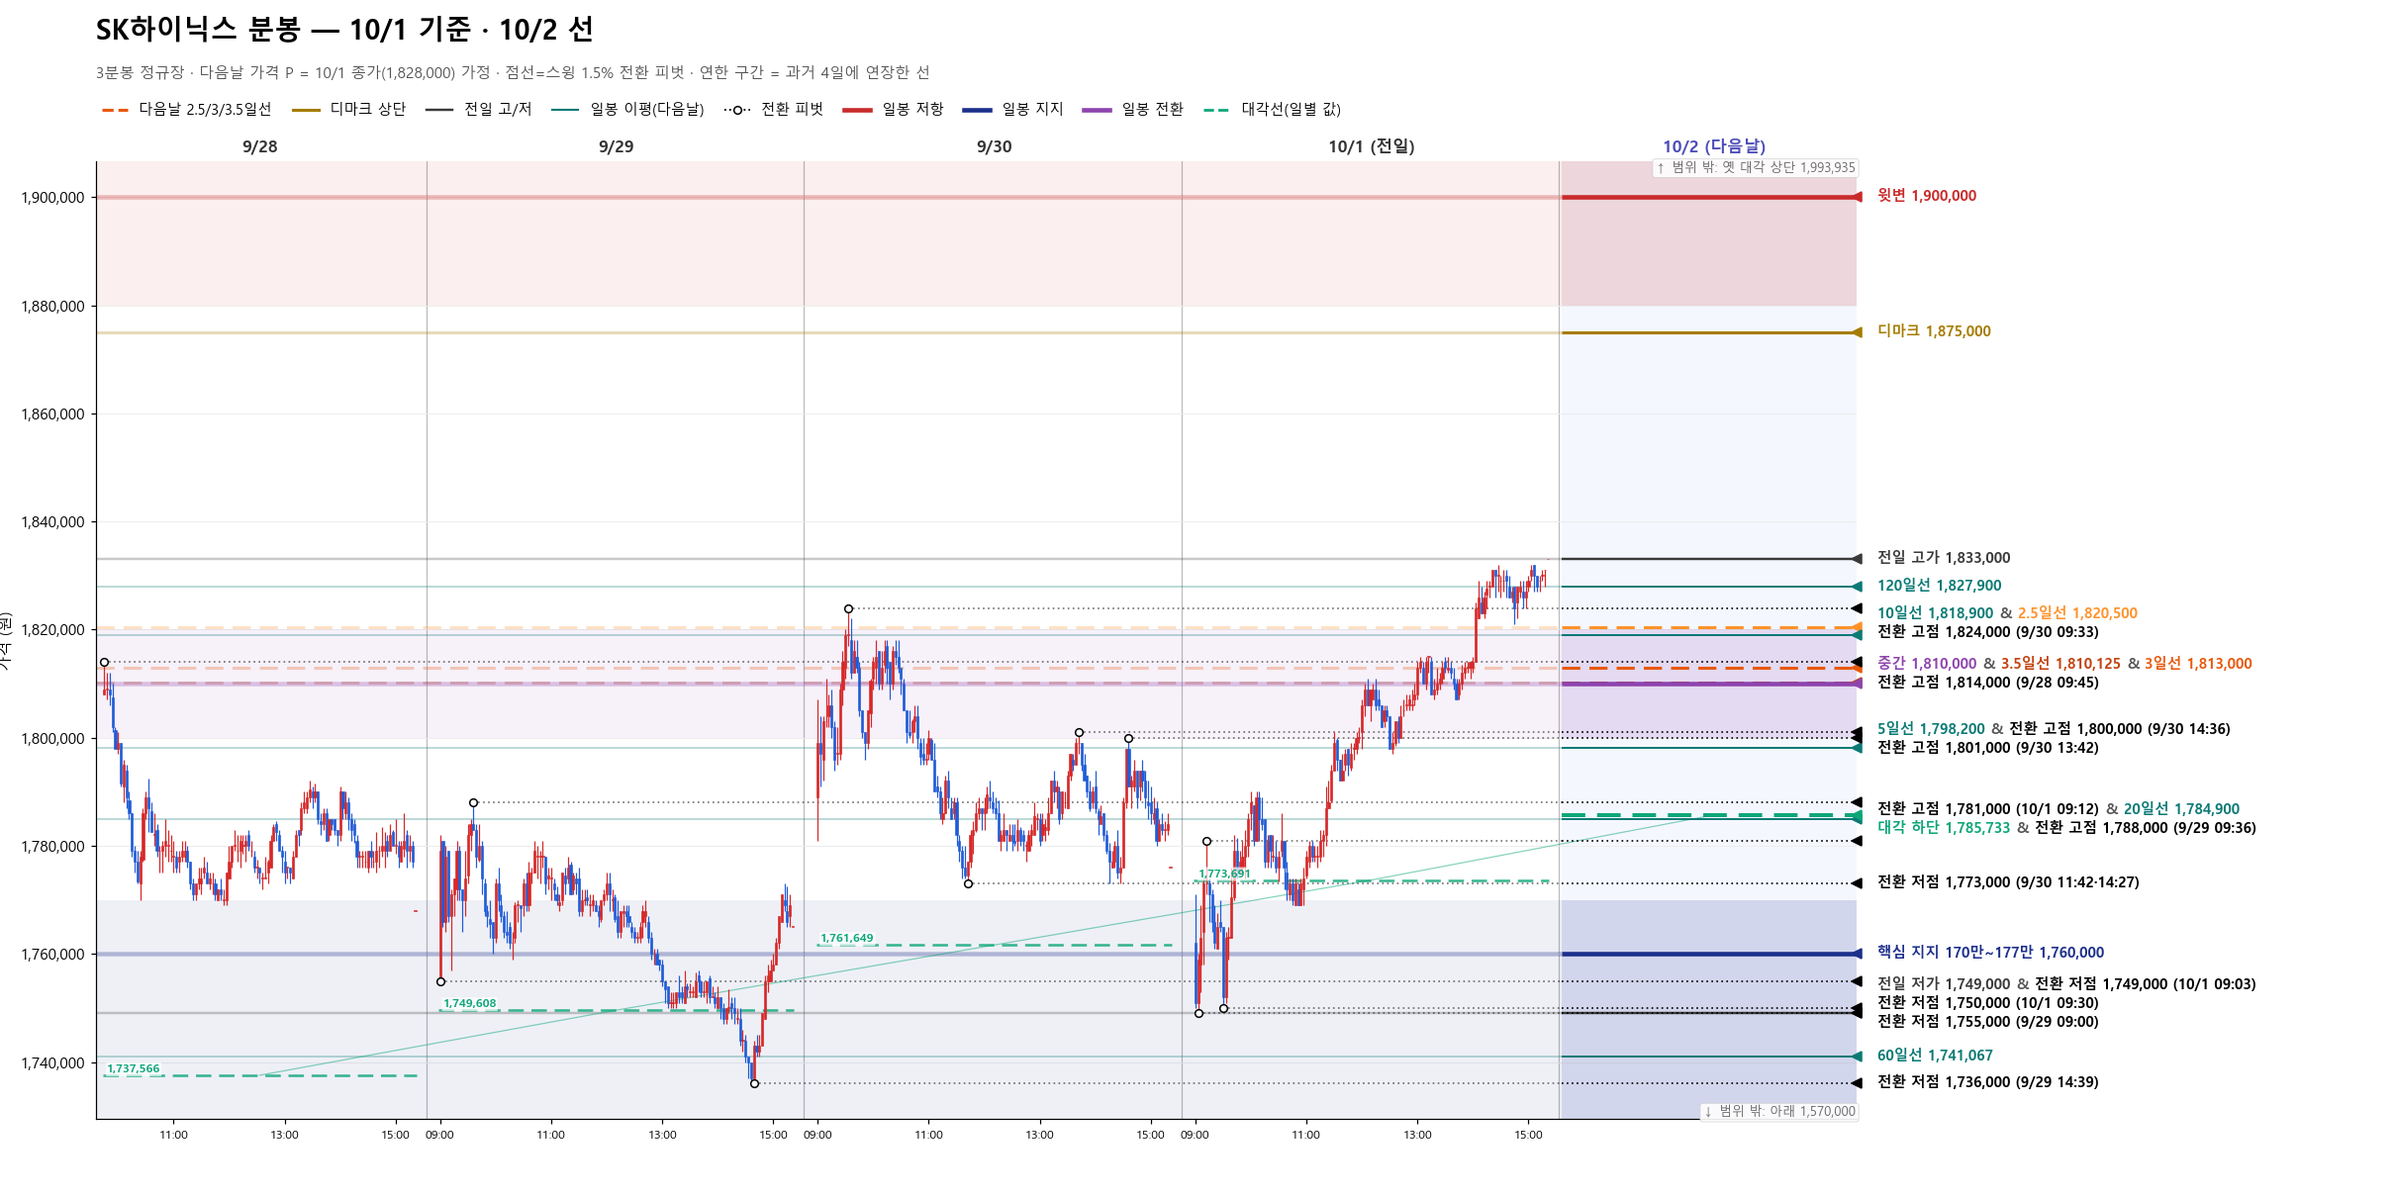
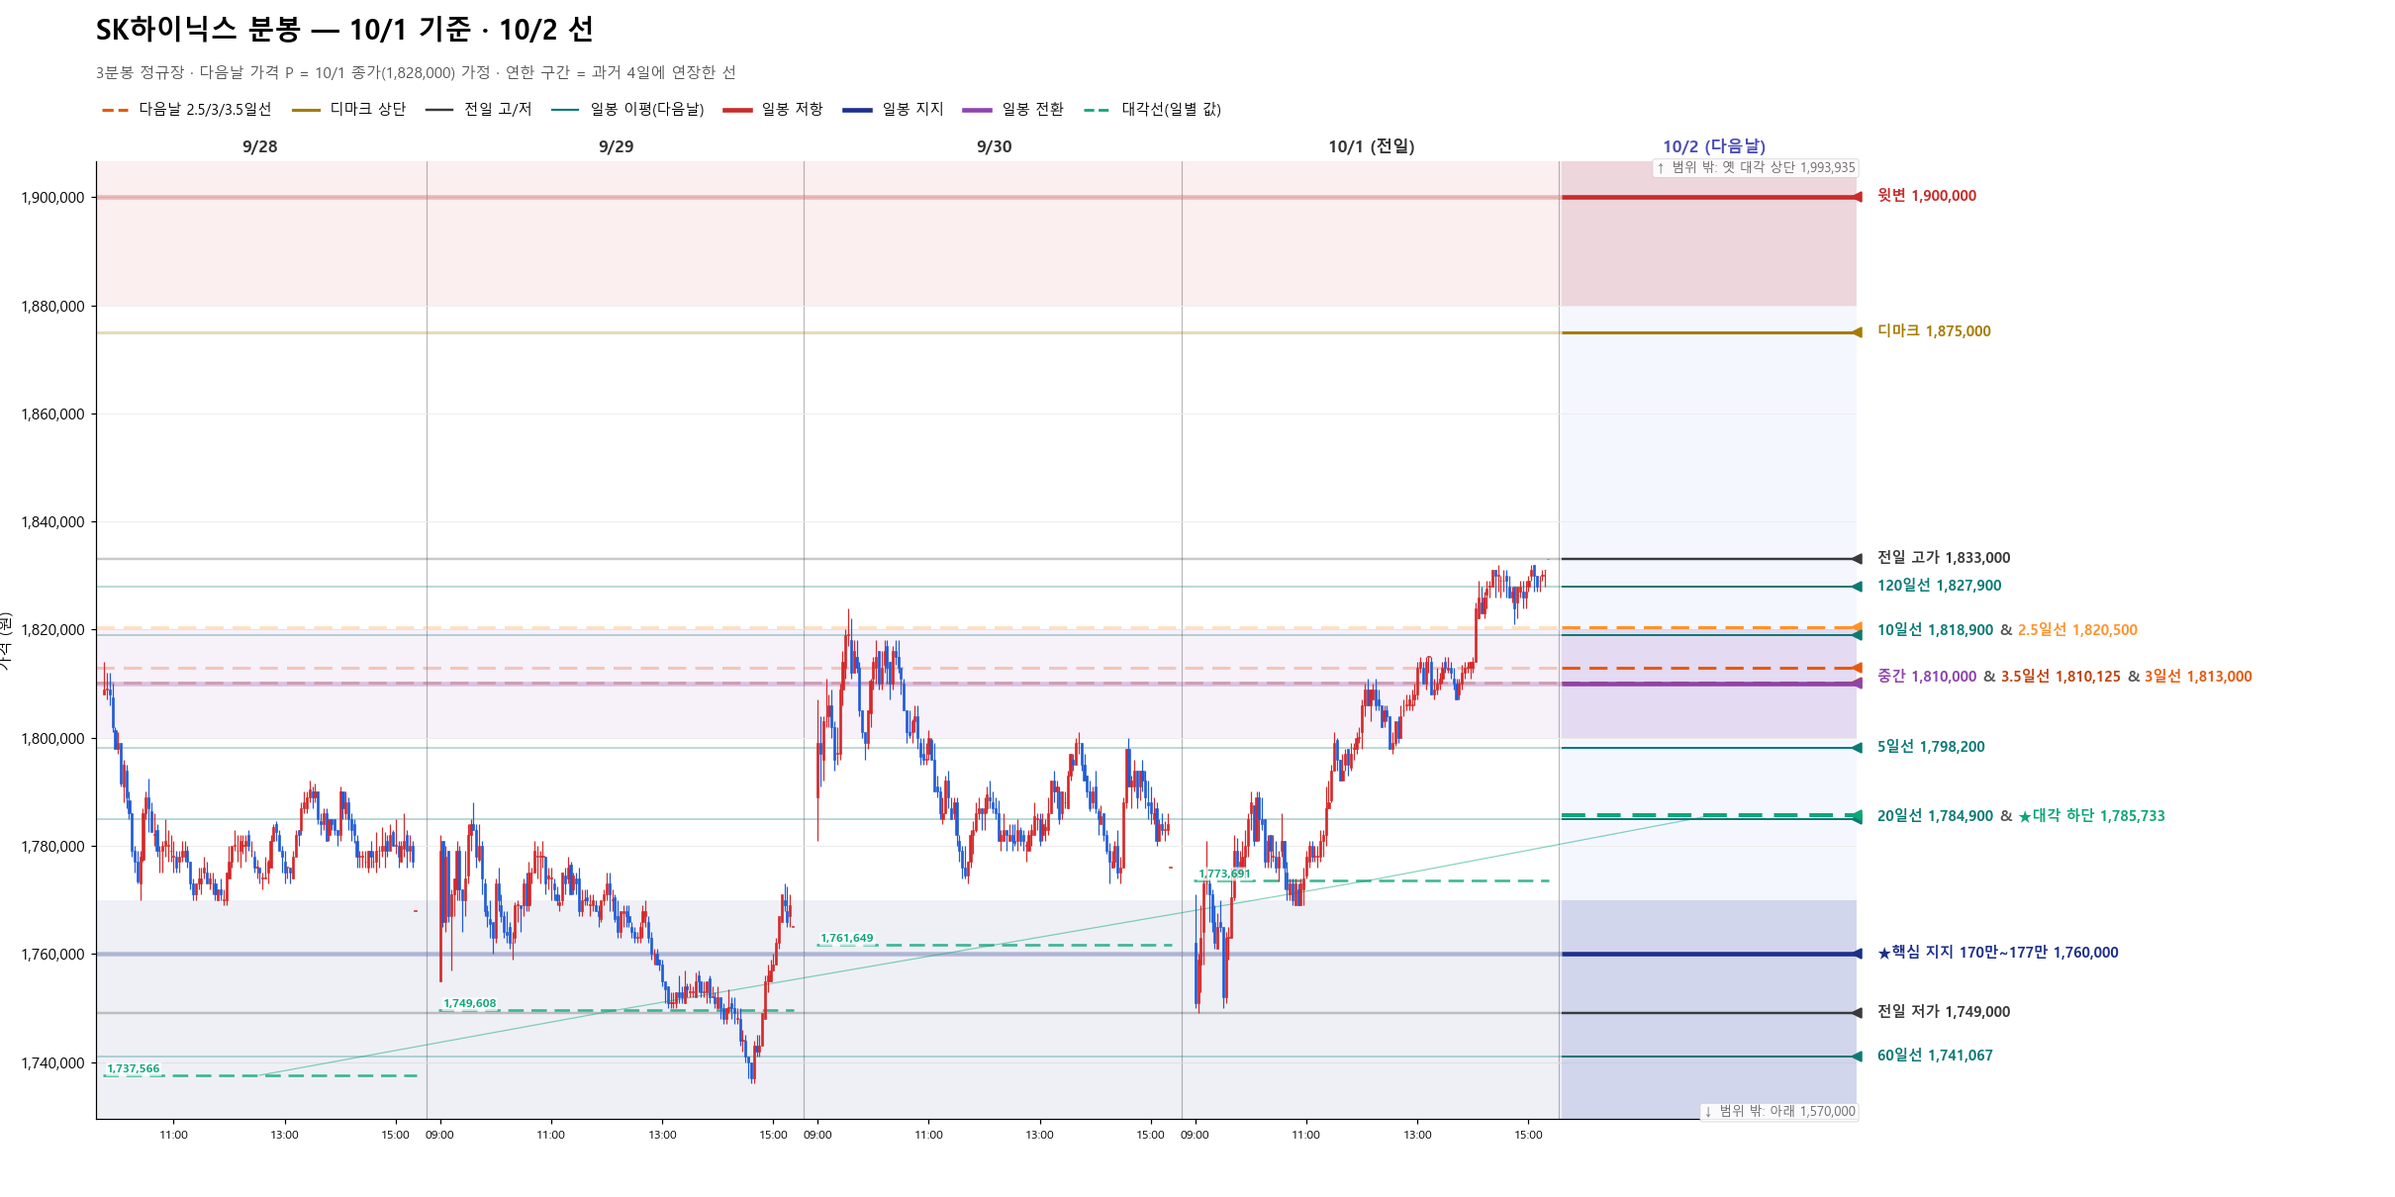
국장복기 자동 동기화 — 시나리오: 추가2·수정0·삭제0 / 스윙진행: 추가0·수정0·삭제0 / 그림: 추가2·수정1·삭제0

diff --git a/content/국장복기/시나리오/매매제안_20261005_SK하이닉스.md b/content/국장복기/시나리오/매매제안_20261005_SK하이닉스.md
@@ -1,0 +1,157 @@
+---
+종류: 매매제안
+형식: 새 형식 (RC-39 · _매매제안방법.md §0-3 · 10/03 개정 — 분봉 꼭지점 없음 · ★ 표기)
+종목: SK하이닉스
+종목코드: "000660"
+등급: 삼전·하닉 (보수 500만 · 평시 1,000만 · 강세·초강세 2,000만)
+날짜: 2026-10-05
+판정: 일봉 좋다 — 중간 띠 돌파 2일차 안착 · 단 가격은 ★지지보다 2.4% 위, 대각이 3일 안에 가격을 따라잡는다
+국면: ⑧ 수렴 (사용자 확정 9/29 · 10/05 유지)
+가장강한지지: "★대각 하단 + 20일선 1,797,774~1,800,000"
+가장강한저항: "윗변 1,880,000~1,935,000"
+손절: 1,760,000 이탈 (그림 기준) · 스윙 종가 손절 = 대각 하단 종가 이탈
+손익비: 2.1
+모드: 초강세 1일차 예정 (RC-12 판정 — 정식 시황 미작성)
+보유: 스윙 허용 — 10/08(휴장 전날) 재판단
+비중상한: 초강세 2,000만(분할) · 모드 확정 전이면 보수 500만
+상태: 대기
+tags:
+  - 매매제안/대형주
+  - 매매제안/새형식
+  - 종목/SK하이닉스
+  - 국면/수렴
+  - 규칙/RC-39
+  - 규칙/RC-40
+---
+
+# 매매제안 — 2026/10/05 SK하이닉스
+
+> [!abstract] 판정 — 일봉이 좋다 : 중간 띠(180만~182만)를 넘은 뒤 이틀째 그 위에서 놀았고, ★대각 하단은 하루 +12,042원씩 올라오고 있다
+> **가장 강한 지지 = `1,797,774~1,800,000`**(★대각 하단 1,797,774 · 20일선 1,798,600 · 중간 띠 하단 1,800,000)
+> 10/02 종가 **1,841,000**은 그 자리보다 **+2.4% 위**다. 야간선물 +1.29% · 필라 +2.40%라 월요일은 더 위에서 열릴 가능성이 크다 → **월요일 아침에 쫓는 자리가 아니라 기다리는 자리**
+> ⏱ 대각은 10/06 1,809,816 → **10/07 1,821,858**까지 올라온다 — **사흘 안에 대각이 가격을 따라잡는다.** 수렴의 끝이 다가오고 있다는 뜻이다
+> 분봉 진입은 사용자 실시간 판단
+
+---
+
+## 🧭 국면 · 일봉 지지저항 (사용자 확정 9/29 · 10/05 유지)
+
+![20261005_SK하이닉스](content/국장복기/차트/20261005_SK%ED%95%98%EC%9D%B4%EB%8B%89%EC%8A%A4.png)
+
+| 항목 | 내용 |
+|:---|:---|
+| **국면** | **⑧ 수렴** — ★대각 하단 위 · 윗변 1,880,000~1,935,000 · 방향 결정 약 10/14~10/20(9/29 판정) |
+| **윗변** | **1,880,000~1,935,000** — 9/08 · 9/09 · 9/10 · 9/22 · 9/23 **5회 거부** |
+| **중간** | 1,800,000~1,820,000(전환) — 9/30 · 10/01 고가 저항 → **10/01 종가 돌파 → 10/02 저가 1,825,000으로 띠 위 유지(2일차)** |
+| **★핵심 지지** | **170만~177만**(선 1,760,000) — 5/19 · 9/28 · 9/29 · 10/01 방어 |
+| **★대각 하단** | 10/02 1,785,733 → **10/05 1,797,774** → 10/06 1,809,816 → 10/07 1,821,858 (하루 +12,042원) |
+| 10/02 봉 | 정규장 시 1,830,000 · 고 1,855,000(09:24) · 저 1,825,000(09:00) · 종 **1,841,000** — **진폭 1.6%의 좁은 봉** · 거래대금 정규 4.34조(10거래일 중 최저) |
+| 판단 변경 없음 | 10/02 봉은 확정 레벨을 새로 만들거나 깨지 않았다 → 1단계 확정값 유지(재보고 생략) |
+
+## 📰 뉴스 · 일정 (2026-10-03 17시 검색)
+
+| 날짜(한국시간) | 일정 | 출처 |
+|:---|:---|:---|
+| 10/05(월) | 국제우주대회 개막 | 마켓프로 10/02 |
+| 10/06(화) | 국정감사 개시 · 서울AI로봇쇼(~8일) | 마켓프로 · 클로징 14084 |
+| **10/07(수) 전후** | **삼성전자 3분기 잠정실적**(캘린더 10/07 · 마켓프로 "8일 전후") · 9월 FOMC 의사록 | 이벤트캘린더 · 다이제스트 · 마켓프로 — **날짜 미확정** |
+| 10/08(목) | 리사 수 AMD 회장 방한 · **휴장 전날** | 다이제스트 14075 |
+| **10/09(금)** | **한글날 휴장** — 미국 장은 열린다 | 마켓프로 |
+| 10월 중 | **60조↑ 주주환원 추가 발표** | 다이제스트 일정 Check |
+| 10/27 또는 10/28 | 3분기 실적 발표 — 주주환원 세부도 이때 | Investing.com(10/27) · Quartr(10/28) — **엇갈림, 미확인** |
+| 10/27~28 | 美 FOMC | 마켓프로 |
+
+**헤드라인**
+1. 美 9월 고용 **+2.9만**(예상 8~9만) · 실업률 4.2% → **10월 동결 기대 굳음** · 필라 **+2.40%** · 엔비디아 장중 사상 최고(CNBC · Yahoo)
+2. 그러나 **30년물 5.628%** 그대로 — 약한 고용에도 장기금리는 안 내려왔다(CNBC)
+3. **외국인 9월 하닉 11.6조 순매도 — 코스피 순매도의 76.6%** · 10/02도 삼전 · 하닉 매도(서울경제)
+4. 삼성 **HBM4 수율 80%대 안정 · 3분기 HBM4 매출 3배 이상 예상** — 하닉 HBM 점유율 58%(1분기)와의 격차 축소(서울경제 · Motley Fool)
+5. 원/달러 **1,343.8원(−15원)** — 외국인 수급엔 우호, 원화 환산 이익엔 감점
+
+> [!success] 종합 : **우호** — 미국 반도체 · 금리 기대는 우호. 역풍은 **외국인 하닉 매도(9월 순매도의 3/4)** · 삼성 HBM4 추격 · 장기금리
+
+## ✅ 좋은 점
+
+1. **중간 띠 역할 전환 2일차** — 9/30 · 10/01 고가를 막던 1,800,000~1,820,000을 10/01에 종가로 넘었고, 10/02엔 저가 1,825,000으로 **한 번도 띠 안으로 안 들어왔다**
+2. **★대각 하단 + 20일선이 826원 차이로 겹친다**(1,797,774 · 1,798,600) — 그 바로 위가 중간 띠 하단 1,800,000. 사용자 원칙 *"대각 지지이면서 강한 지지"* 그대로
+3. **미국 확인** — 고용 쇼크로 10월 동결이 굳고 필라 +2.40% · 야간선물 +1.29%
+4. 이벤트 순서 — 삼성 잠정실적(이익 확인) → 하닉 주주환원(10월 중)이 같은 방향
+
+## ⚠ 나쁜 점
+
+1. **오르는데 거래가 준다** — 10/02 정규장 4.34조 = 최근 10거래일 최저, 진폭 1.6%. 띠 위 안착은 맞지만 **힘으로 넘은 게 아니다**
+2. **외국인이 하닉을 가장 많이 판다** — 9월 11.6조, 10/02도 매도. 자사주 매입 71.3%로 막바지 → 받쳐 주던 기타법인이 곧 빠진다
+3. **윗변 5회 거부** · ★대각이 사흘 뒤 가격(약 1,82만)까지 올라온다 → **수렴 끝이 생각보다 빠르다**(9/29 판정 10/14~10/20보다 앞당겨질 수 있다)
+4. **대각 장중 이탈 2회**(9/29 · 10/01) — 선이 약해지는 신호(RC-24)
+5. 삼성 HBM4 추격 · 30년물 5.63% · 10/08 휴장 전날
+
+## ⛔ 무효 조건
+
+1. **일봉 종가가 ★대각 하단 아래** — 10/05 1,797,774 / 10/06 1,809,816 / 10/07 1,821,858 → 수렴 하향 이탈, 판단을 거둔다
+2. **중간 띠(1,800,000) 종가 재진입 후 이탈** — 역할 전환 실패
+3. 뉴스 : 삼성 잠정실적이 환율 감소분을 못 메움 · 장기금리 5.7% 돌파 · 솔리다임 상장 확정
+
+## 🖼 분봉 그림 (10/02 기준 · 10/05 선)
+
+![20261005_SK하이닉스_분봉](content/국장복기/차트/20261005_SK%ED%95%98%EC%9D%B4%EB%8B%89%EC%8A%A4_%EB%B6%84%EB%B4%89.png)
+
+| 위 → 아래 | 선 | 근거 |
+|:---|---:|:---|
+| 일봉 저항 | **1,880,000~1,935,000** | 윗변(선 1,900,000) — 5회 거부 |
+| 디마크 상단 | 1,863,000 | 10/02 정규장(C > O → 2H+L+C) |
+| 전일 고가 | 1,855,000 | 10/02 09:24 |
+| | 1,834,658~1,838,833 | 120일선 1,834,658 · 3일선 1,836,667 · 2.5일선 1,838,833 |
+| *10/02 종가* | *1,841,000* | |
+| | 1,825,000~1,829,958 | 전일 저가 1,825,000 · 10일선 1,827,700 · 3.5일선 1,829,958 |
+| | 1,810,000~1,816,600 | 중간 띠(선 1,810,000) · 5일선 1,816,600 |
+| **가장 강한 지지** | **1,797,774~1,800,000** | **★대각 하단 1,797,774** · 20일선 1,798,600 · 중간 띠 하단 1,800,000 |
+| ★핵심 지지 | 1,700,000~1,770,000 | 선 1,760,000 |
+| | 1,735,850 | 60일선 |
+
+- 다음날 이평은 "10/05 가격 = 10/02 종가 1,841,000" 가정 — 3일선 = (1,828,000 + 1,841,000 + 1,841,000) ÷ 3 = 1,836,667
+- 분봉 지지저항 · 전환 고점·저점은 그리지 않았다(RC-39 §2, 10/03 개정)
+
+## ⚖ 손익비 (가장 강한 지지 → 가장 강한 저항, 한 번만)
+
+| 항목 | 값 |
+|:---|:---|
+| 가장 강한 지지 | `1,797,774~1,800,000` · 중앙 **1,798,900** — ★대각 하단 · 20일선 · 중간 띠 하단 |
+| 가장 강한 저항 | `1,880,000~1,935,000` · 하단 **1,880,000** — 윗변(5회 거부) |
+| 손절 | **1,760,000 이탈** — 그림에서 지지 덩이 바로 아래 다음 선(★핵심 지지) |
+| **손익비** | (1,880,000 − 1,798,900) ÷ (1,798,900 − 1,760,000) = 81,100 ÷ 38,900 = **1 : 2.1** |
+
+- 스윙(RC-40)으로 들고 갈 때의 실제 손절은 **★대각 하단 종가 이탈**(10/05 1,797,774)이라 그림 기준보다 훨씬 가깝다 — 그 경우 손실 폭이 작아져 손익비는 더 좋아진다
+- 참고 : 지지를 중간 띠까지 넓게 잡으면(1,797,774~1,820,000, 중앙 1,808,900) 71,100 ÷ 48,900 = 1 : 1.5
+
+## 🌡 전일 수급 주의
+
+- 외국인 **9월 하닉 11.6조 순매도**(코스피 순매도의 76.6%) · 10/02도 삼전 · 하닉 매도(현물), 지수선물은 매수(클로징)
+- 하닉 자사주 취득률 **71.3%** — 끝나면 기타법인 받침이 빠진다
+- 원/달러 −15원은 외국인이 돌아올 조건 하나가 갖춰진 것 — **실제로 사는지는 장중 확인**(진입 판단은 사용자 — `_시황판단방법.md` §2-4)
+
+## 📏 비중 · 조급증
+
+| 항목 | 값 |
+|:---|:---|
+| 모드 | **10/05 초강세 1일차 예정**(RC-12 : 10/01 · 10/02 이틀 연속 코스피 5 · 10일선 위, 보수 조건 1/3) — ⚠ **정식 시황 미작성**. 시황에서 확정 전이면 **보수 500만(2주)** |
+| 수량 상한 | 초강세 **2,000만 = 약 11주**(1,798,900 기준 1,979만) — **분할로만 채운다**(원샷 금지) |
+| 보유 | 초강세 · RC-40 스윙 → **종가가 ★대각 위면 보유** / **10/08(휴장 전날)은 공통 예외로 재판단** |
+| 슬롯 | 반도체 대형주 동시 1종목 — 월요일 대장 재판정(삼전) |
+| ⚠ 조급증 | 비중 상한이 두 배가 됐어도 **거래대금은 기준의 절반** · RC-16 위반 8회 · 개장 수급 확인 전 진입 반복 3회 — **월요일 갭에서 쫓지 않는다** |
+
+## ⚠ 한계
+
+- 국면 · 일봉 지지저항은 **9/29 사용자 확정 + 10/01 재판정** 값을 그대로 썼다 — 10/02 봉이 레벨을 바꾸지 않아 1단계 재보고는 생략했다
+- **모드(초강세)는 RC-12 조건만 대입한 값**이다 — 10/02 국장마감후 · 10/05 미장마감후 정식 시황은 아직 안 썼다
+- 손익비의 손절 정의(지지 덩이 아래 다음 선)는 클로드 정의 — 사용자 확인 대기
+- 3분기 실적일(10/27 · 10/28)과 삼성 잠정실적일(10/07 · 10/08)은 출처가 엇갈린다
+- SKHY(미국 ADR) 10/02 종가는 검색 결과가 신뢰하기 어려워 쓰지 않았다
+
+> [!example]- 부록 — 데이터
+> - 데이터 : `일봉분봉/SK하이닉스일.xls` · `SK하이닉스분.xls`(10/03 17:06 업로드 · 일봉 ~10/02 · 3분봉 9/29~10/02) — 일봉 끝 빈 행 없음(600봉)
+> - 10/02 정규장 : 시 1,830,000 · 고 1,855,000(09:24) · 저 1,825,000(09:00) · 종 1,841,000 · 대금 4.34조 · 첫 3봉 3,598억 / NXT 고 1,849,000 · 저 1,833,000 · 종 1,841,000
+> - 일봉 종가 : 9/30 1,783,000 · 10/01 1,828,000 · 10/02 1,841,000
+> - 10/05 하루 한정 이평(다음 종가 = 1,841,000) : 5일 1,816,600 · 10일 1,827,700 · 20일 1,798,600 · 60일 1,735,850 · 120일 1,834,658 · 224일 1,335,951
+> - 차트 : `차트/20261005_SK하이닉스.png`(일봉) · `차트/20261005_SK하이닉스_분봉.png` · `차트/spec/20261005_SK하이닉스.json`(★핵심 지지 `"core": true` 추가) · `_분봉선.json`
+> - 관련 : [[매매제안_20261002_SK하이닉스]] · [[초안_마켓프로식_20261003]]
+> - 웹 : [서울경제 10/02 외국인 삼전·하닉 매도](https://en.sedaily.com/finance/2026/10/02/kospi-nears-7000-as-foreigners-sell-samsung-sk-hynix) · [서울경제 9월 외국인 21.5조](https://en.sedaily.com/finance/2026/09/30/foreign-investors-dump-215-trillion-won-in-september-led-by) · [서울경제 삼성 HBM 격차](https://en.sedaily.com/finance/2026/09/21/samsung-narrows-hbm-gap-with-sk-hynix-to-17-points) · [Investing 하닉 실적일](https://www.investing.com/equities/sk-hynix-inc-earnings) · [Quartr 하닉](https://quartr.com/companies/sk-hynix-inc_15483)

diff --git a/content/국장복기/시나리오/매매제안요약_20261005.md b/content/국장복기/시나리오/매매제안요약_20261005.md
@@ -1,0 +1,36 @@
+---
+종류: 매매제안요약
+날짜: 2026-10-05
+종목: [SK하이닉스]
+형식: 새 형식 (RC-39)
+모드: 초강세 1일차 예정 (정식 시황 미작성)
+tags:
+  - 매매제안/요약
+---
+
+# 매매제안 요약 — 2026/10/05
+
+**순위** : ① SK하이닉스 (단독) · 반도체 대형주 슬롯 동시 1종목
+
+**오늘의 전제**
+1. 모드 **초강세 1일차 예정**(RC-12 조건 대입 — 정식 시황 미작성, 확정 전이면 보수 500만)
+2. 미국 : 고용 2.9만 → 10월 동결 굳음 · 필라 +2.40% · 30년물 5.63% 그대로 · 야간선물 +1.29% → **갭 출발 예상**
+3. 이번 주 나흘 : 10/07 전후 삼성 잠정실적 · **10/08 휴장 전날 · 10/09 한글날 휴장**
+4. 분봉 진입은 사용자 실시간 판단(RC-39)
+
+**SK하이닉스**
+1. 판정 : **일봉 좋다** — 중간 띠(180만~182만) 돌파 2일차 안착 / 단 가격(1,841,000)은 ★지지보다 +2.4%
+2. 가장 강한 지지 : **1,797,774~1,800,000**(★대각 하단 · 20일선 · 중간 띠 하단) — ★대각은 10/07 1,821,858까지 올라온다
+3. 가장 강한 저항 : **1,880,000~1,935,000**(윗변 5회 거부) — 그 앞 디마크 1,863,000 · 전일 고가 1,855,000
+4. 손절 : 그림 기준 **1,760,000 이탈** / 스윙은 **★대각 종가 이탈**
+5. 손익비 **1 : 2.1** · 상한 초강세 2,000만(약 11주, 분할) / 모드 확정 전 2주
+
+**오늘 안 하는 것** : 월요일 갭 추격 · 한 번에 상한 채우기 · 개장 수급 확인 전 진입
+
+**장중 확인 순서** : 08:00 NXT 프리 → 09:00 시가(갭 크기) · 삼전과 대장 재판정 → 외국인 현물 방향 → 전일 고가 1,855,000 · 디마크 1,863,000 반응 → 내려오면 중간 띠 · ★대각까지 오는가
+
+**이벤트(한국시간)** : 10/07 전후 삼성 잠정실적 · FOMC 의사록 · 10/08 휴장 전날 · 10/09 휴장 · 10월 중 하닉 60조↑ 주주환원 · 10/27~28 하닉 실적(미확인)
+
+**비중 경고** : ==초강세여도 분할== — 거래대금은 기준의 절반, 상한은 "채워라"가 아니다
+
+→ 제안서 : [[매매제안_20261005_SK하이닉스]]

diff --git a/content/국장복기/시나리오/갱신정보.md b/content/국장복기/시나리오/갱신정보.md
@@ -1,18 +1,14 @@
 # 갱신 정보 — 시나리오
 
-- **마지막 반영:** 2026-10-02 06:37 (PC 시각)
-- **현재 파일 수:** 2개 (PC 폴더 직속 md를 그대로 미러링)
+- **마지막 반영:** 2026-10-03 18:00 (PC 시각)
+- **현재 파일 수:** 4개 (PC 폴더 직속 md를 그대로 미러링)
 
 ## 이번 반영 변경
-- 수정: 매매제안_20261002_SK하이닉스.md
-- 삭제: 매매제안_20260930_SK스퀘어.md
-- 삭제: 매매제안_20260930_SK하이닉스.md
-- 삭제: 매매제안_20260930_삼성전기.md
-- 삭제: 매매제안_20260930_삼성전자.md
-- 삭제: 매매제안_20261001_SK스퀘어.md
-- 삭제: 매매제안요약_20260930.md
-- 삭제: 매매제안요약_20261001.md
+- 추가: 매매제안_20261005_SK하이닉스.md
+- 추가: 매매제안요약_20261005.md
 
 ## 현재 파일 목록 (최신순)
+- 매매제안_20261005_SK하이닉스.md — 원본 수정 2026-10-03 17:10
+- 매매제안요약_20261005.md — 원본 수정 2026-10-03 17:10
 - 매매제안_20261002_SK하이닉스.md — 원본 수정 2026-10-02 05:59
 - 매매제안요약_20261002.md — 원본 수정 2026-10-02 05:59
